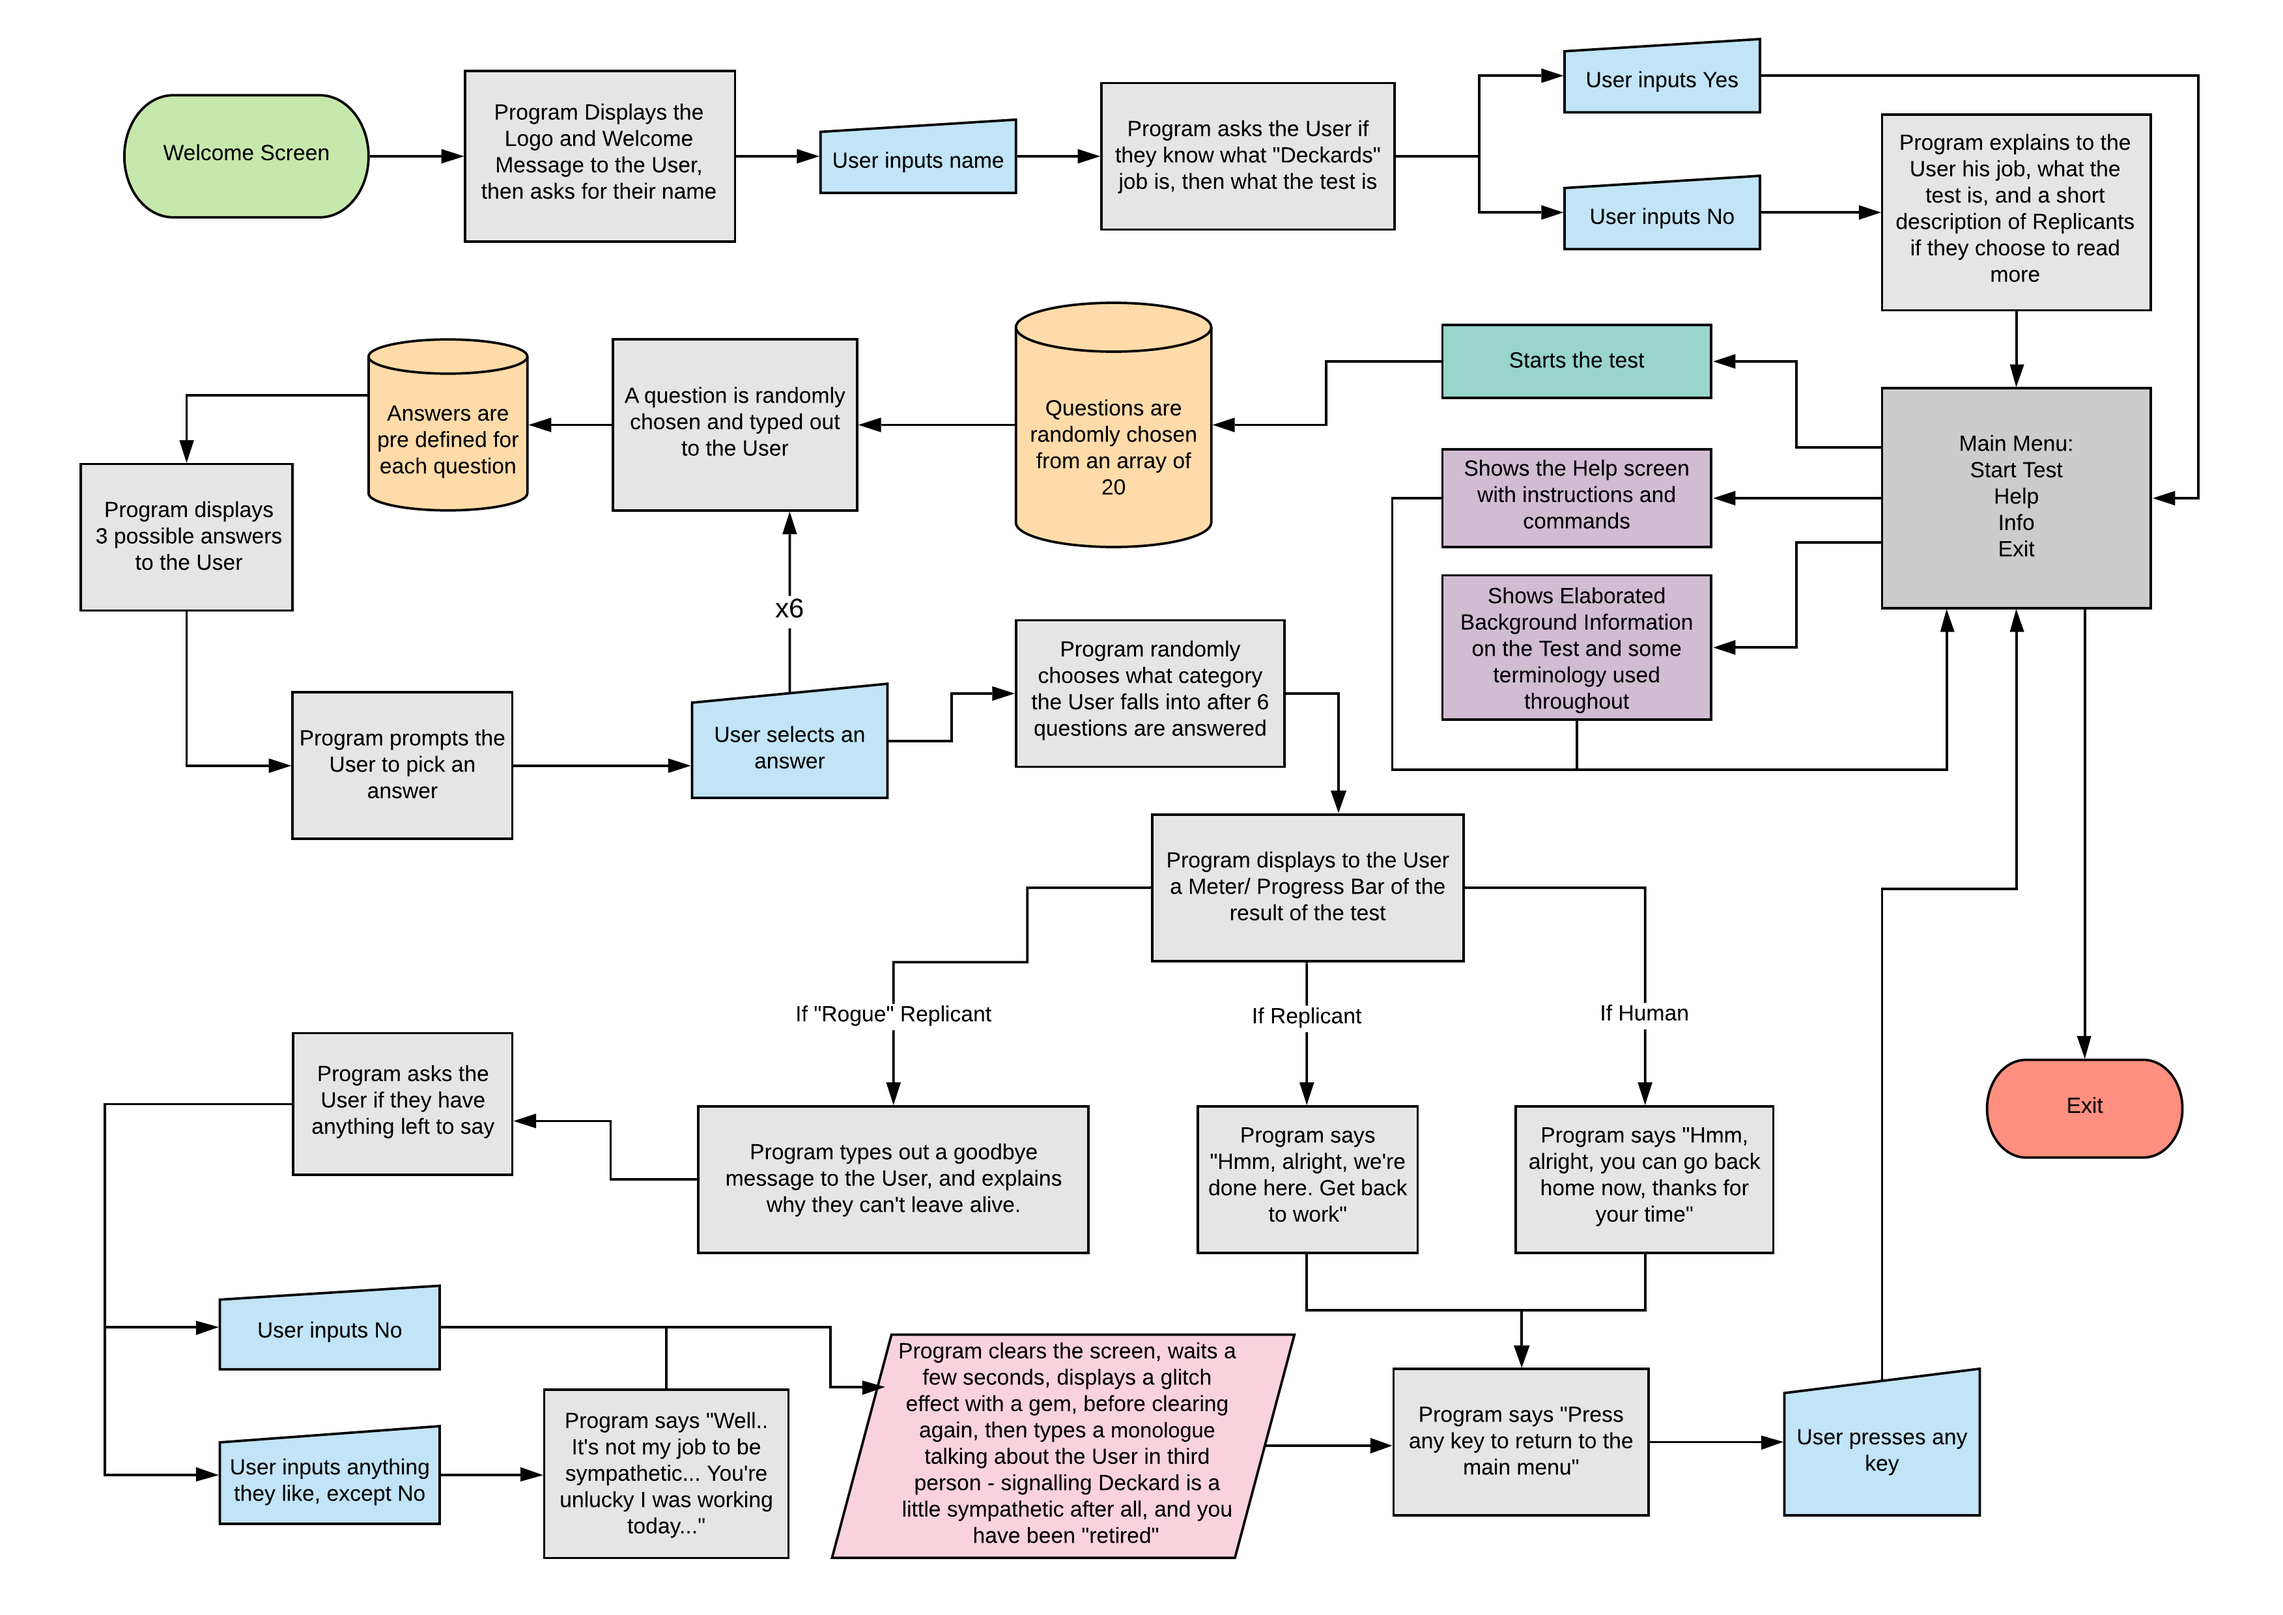
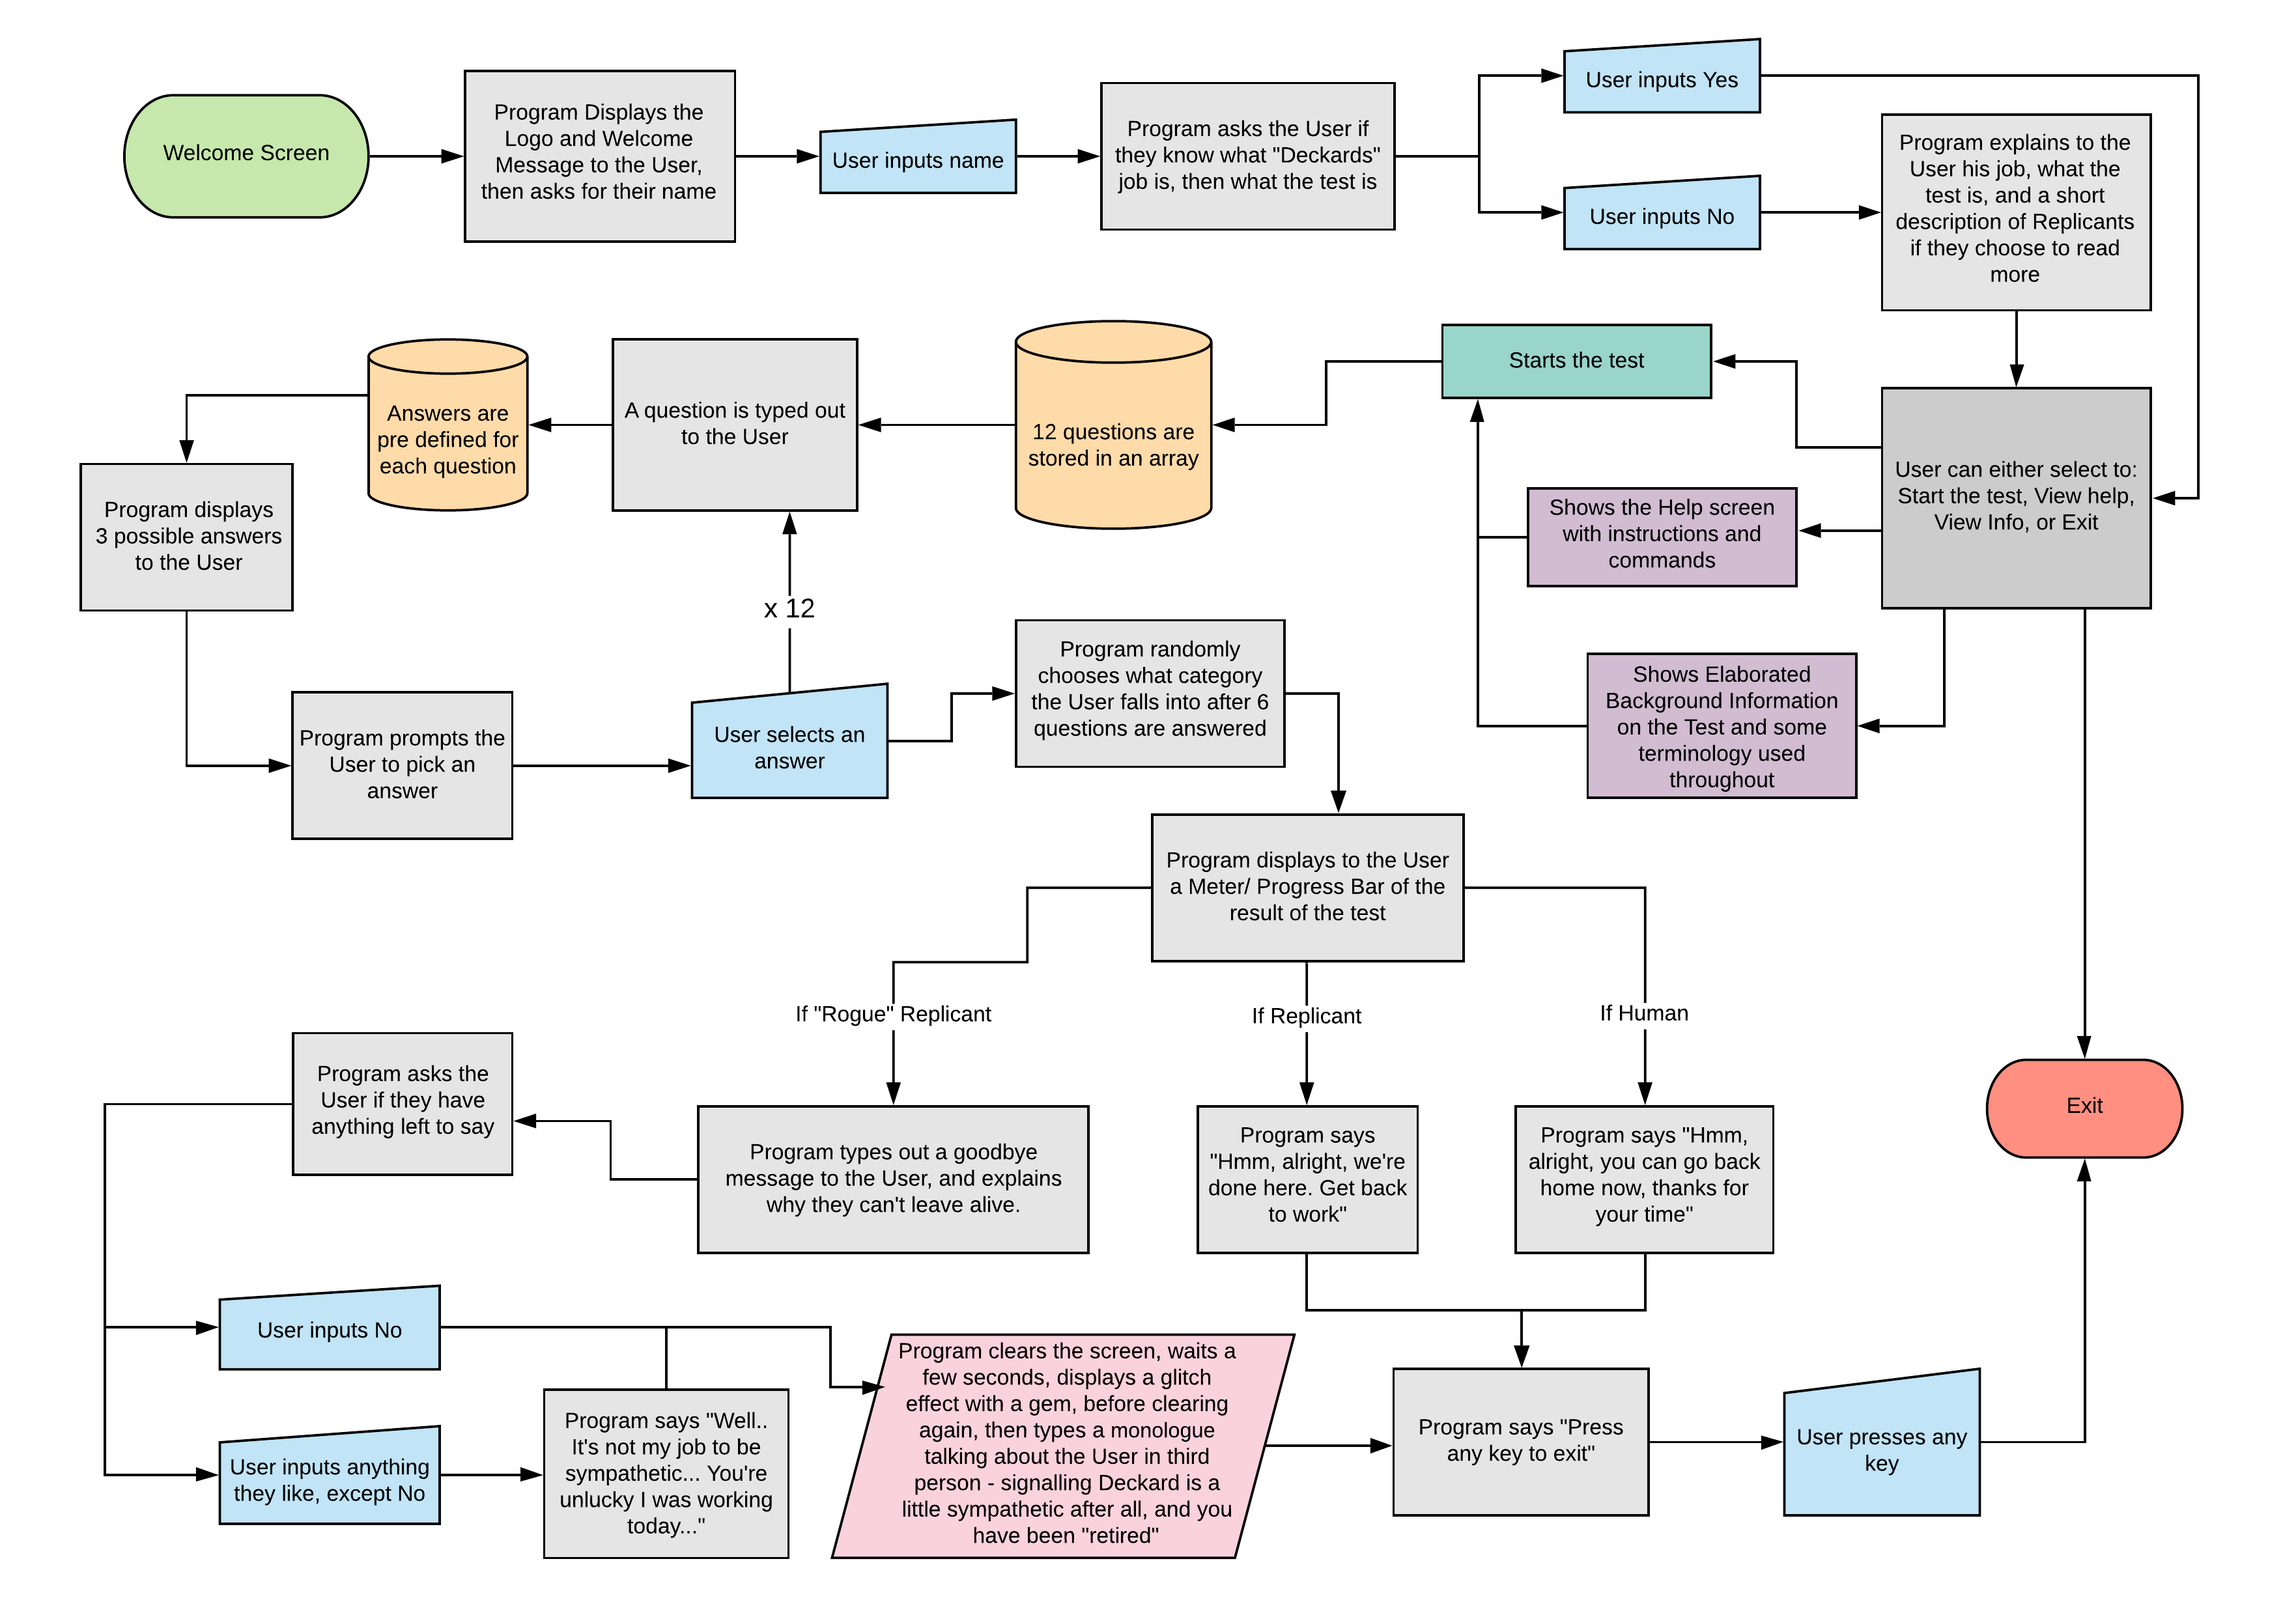
commited from wrong subfolder

diff --git a/README.md b/README.md
@@ -2,6 +2,8 @@
 **Do Devs Dream of Electric Sheep?** is a terminal text game that is a rendition of the Voight-Kampff test, from the 1982 film *Blade Runner*. The interviewer Deckard, main charcter of the film, asks a series of seemingly odd questions trying to discover if the User is a Human, Replicant or a "Rogue" Replicant, and *retires* them if they are the latter.
 <br /> It is built in Ruby to explore Modularisation, object-oriented programming, DRY principles, Ruby Gems and  Error Handling as well as learning how to properly plan, structure and create a project utilising product management tools.
 
+Disclaimer: Please don't take this test too seriously. I am providing an example of how impossible it might be to define a human or a replicant, based off a small program.
+
 # Background Information
 In the dystopian world of Ridley Scott's 1982 film Blade Runner, and its loosely based insipiration, "Do Androids Dream of Electric Sheep?" the novel by Philip K. Dick, you're either a Human or a genetically engineered being called a Replicant - mostly used for dangerous and degrading work like slave labour. Sometimes these Replicants go "rogue", so it becomes the job of a special police unit - Blade Runners - to hunt down and *retire* (assassinate) those Replicants.
 
@@ -9,21 +11,21 @@ However both Humans and Replicants are almost identical physically, the only way
 <br />You can read more about the Voight-Kampff test [here](https://bladerunner.fandom.com/wiki/Voight-Kampff_test) if you're interested.
 
 # Description, Purpose and Motivation
-**Do Devs Dream of Electric Sheep?** opens on a welcome screen that displays the logo, followed by a few introduction questions from the "interviewer" Deckard, before showing the main menu, where the User can input a number to:
+**Do Devs Dream of Electric Sheep?** opens on a welcome screen that displays the logo, followed by a few introduction questions from the "interviewer" Deckard, before allowing the User to:
 - Start the test
 - View Help (controls and how the test is going to work)
 - View Info (background information regarding the lore of Voight Kampff, Blade Runner and Deckard)
 - Exit the program
 
-When starting the test, the program randomly selects 6 questions from an array of 20, one at a time, and then displays to the User the 3 pre-defined answers.
+When starting the test, the program loops through 12 questions, one at a time, and then displays to the User the 3 pre-defined answers for the particular question.
 
-The User then inputs a number to pick the answer they want, then after each question asnwered, Deckard says nothing giving no indication as to if they answered "correctly".
+The User then inputs a number to pick the answer they want, then followed by the next question.
 
-Once all 6 questions are asked, the program randomly chooses which ending the User got, and displays a unique message for each. If your ending is either Human or Replicant, thats the end of the test, and you're followed by the screen clearing, prompting you to press "any key" to return to the main menu.
+Once all 12 questions are asked, the program randomly chooses which ending the User got, and displays a short unique message for each. If your ending is either Human or Replicant, thats the end of the test, and you're followed by the screen clearing, prompting you to press "any key" to return to the exit the program.
 
 If your ending is "Rogue" Replicant, theres a few more questions asked to the User, before the screen clears, then a random assortment of letters, numbers and symbols are displayed on the screen signalling you have been retired.
 <br />Shortly after the screen clears again, you see Deckard typing out a monologue talking about the User in third person, giving the indication he was a little sympathetic and found it harder than he thought to get his job done.
-<br />Once finished, the user is prompted to press "any key" to return to the main menu.
+<br />Once finished, the user is prompted to press "any key" to exit the program.
 
 This program is purely for enjoyment, based off something I appreciate, and can share with friends who also are fans of the film. Whilest also challenging myself to apply everything I have learnt so far in 4-5 weeks at [Coder Academy](https://coderacademy.edu.au/about-coder-academy).
 <br />
@@ -36,22 +38,22 @@ I was a bit concerned at the beginning that maybe this project would be out of m
 # UI/UX
 
 ## User Story (as of right now)
-- User is presented a welcome screen and a few introduction questions
-- Menu is shown, allowing User to;
-  - Start the test, View Help, View Info, Exit.
-- A question gets randomy chosen and typed out to the User
-- 3 pre-defined answers are displayed, followed by the program prompting the User to input a corresponding number
-- 6 questions get asked in total
+- User is presented an indtroduction screen and a few questions
+- User can;
+  - Start the test, View Help, View Info, Exit the program.
+- A question get typed out to the User
+- 3 pre-defined answers are displayed, followed by the program prompting the User to input a corresponding number to an answer
+- 12 questions get asked in total
 - The program randomly chooses if the User is a 
   - Human, Replicant, "Rogue" Replicant.
 - A Meter/ Progress Bar is displayed showing something like [Human --x------------ Replicant --- "Rogue"] where x is the User
-- The test ends and the user is prompted to go back to the main menu
+- The test ends and the User is prompted to exit the program
 
   OR
 
-- The User is *retired* if they get the "Rogue" Replicant ending, followed by being prompted to return to the main menu
+- The User is *retired* if they get the "Rogue" Replicant ending, followed by being prompted to exit the program
 
-If at any point the User wants to quit the program, they can do so by pressing esc.
+If at any point the User wants to quit the program, they can do so by pressing TODO - add the cli used.
 
 If the User inputs something incorrectly for an answer, Deckard will prompt the User to take the test seriously and answer the first thing that comes to mind.
 
@@ -62,14 +64,13 @@ If the User inputs something incorrectly for an answer, Deckard will prompt the 
 The game begins with an ASCII title, then the game asks the user to relax, if they're ready to begin, and then follows by asking a series of seemingly odd questions, that are meant to determine if the user is a human or replicant, based off their responses.
 
 ## Current Features
--  Menu, allowing the user access to
-	- Start the tes
+-  After a introduction message, User has acces to 
+	- Starting the test
 	- Viewing Help (Controls and how the test will work)
 	- Viewing Information regarding the inspiration behind the game (Blade Runner franchise, Voight Kampff, etc)
-	- Exit
-
+	- Exit the program
 - Saving user input for later use
-- A Methods that randomly select a question from an array
+- A Method to print out each question from an array
 - A Method that gets the 3 pre-defined answers for each question that are stored in an array
 - A Method that randomly select what ending the User gets
 - ASCII art for the Welcome screen, and end-of-test screen
@@ -101,11 +102,11 @@ TODO - link the Trello board
 
 
 # Testing
-TODO - add screenshots of Terminal displaying test results
+TODO - add screenshots of Terminal displaying rspec testing
 
 # Development Log
 
-TODO - link the md file here
+<a href="docs/development-log.md">development-log.md</a>
 
 ## Sources
 Information and text excerpts used for Info Menu, Questions from the Test etc:

diff --git a/docs/development-log.md b/docs/development-log.md
@@ -1,0 +1,22 @@
+# Development Log
+
+## Status Updates
+- **Monday 20/4** - Recieved Project + Gathering of ideas for the program
+- **Tuesday 21/4** - Start to write the Software Development Plan + Set up Trello board with lists
+- **Wednesday 22/4** - Research/ Learning + Finalised most of the documentation in the SDP
+- **Thursday 23/4** - Create Flowchart Diagram + Procrastinate with a million different features to implement
+- **Friday 24/4** - Re-do Flow Chart diagram as I realised I bit off more than I could chew
+- **Saturday 25/4** - Research Rspec and learn how to use it by writing a test + Code the Welcome Screen + Retouch SDP + Initialize Github repo + Make first commit
+- **Sunday 26/4** *Morning/ Afternoon* - Start writing some tests using Rspec + Code the random endings (except the glitch effect) + Start coding the "test" section
+
+## Halfway Thoughts
+
+This is essentially the half way point of my project unfortunately, as I didn't plan as well as I know I should've. Not that I didn't do the documentation or diagram first etc, more so that I bit off more than I could chew in terms of time contraints and my comfortability with Ruby at the moment. 
+
+It took me a while to get started as I kept re-editing the control flow diagram to something that would be achievable for me by the deadline of the assignment.
+
+I kept getting too carried away with thinking of more and more features I wanted to add, then adding them to the flowchart, and realising I wouldn't have time for half of them in the week time frame (even less since I didn't start properly planning till  essentially Wednesday).
+
+However if the Control Flow Diagram and SDP were basically finished by Wednesday/ Thursday, and I had a clear idea of what I could achieve, I would have given myself more time to potentially add the features I want, gain a better understanding of some OOP concepts as well as more testing and refactoring.
+
+This is definitely something I'm going to learn from for future projects, as I know what I should have done differently, however I'm still confident to finish the project by Monday the 27th.
